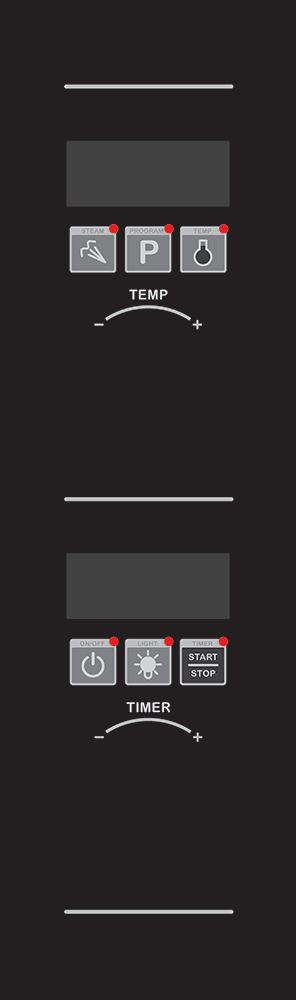
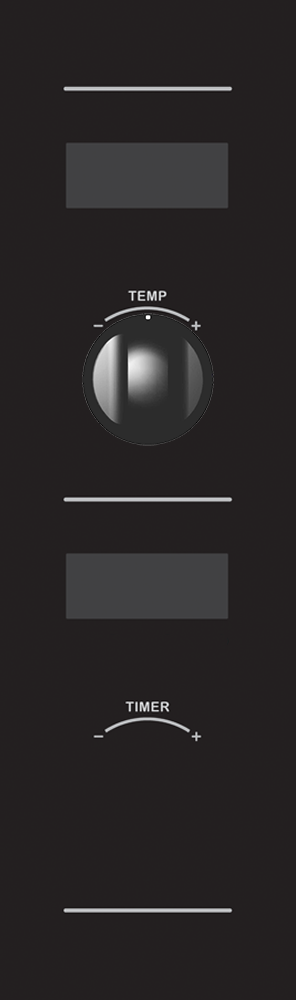
Button alighment

diff --git a/Style.min.css b/Style.min.css
@@ -1,1 +1,1 @@
-@font-face{font-family:'ds-digitalitalic';src:url('fonts/DS-Digital/ds-digii-webfont.eot');src:url('fonts/DS-Digital/ds-digii-webfont.eot?#iefix') format('embedded-opentype'),url('fonts/DS-Digital/ds-digii-webfont.woff2') format('woff2'),url('fonts/DS-Digital/ds-digii-webfont.woff') format('woff'),url('fonts/DS-Digital/ds-digii-webfont.ttf') format('truetype'),url('fonts/DS-Digital/ds-digii-webfont.svg#ds-digitalitalic') format('svg');font-weight:normal;font-style:normal}.digial{font-family:'ds-digitalitalic'}.displayBox{width:102px;height:41px;border:1px solid #666;font-size:33pt;font-family:'ds-digitalitalic';text-align:center;background-color:#72716c;color:#fefcf9}.controlPanel{height:1000px;width:300px;background-image:url('Images/D-series-control-panel.png')}.btn{width:46px;height:46px;cursor:pointer;border:none}.btnSteam_Off{background-image:url('Images/btnSteam_Off.png')}.btnSteam_On{background-image:url('Images/btnSteam_On.png')}.btnProgram_Off{background-image:url('Images/btnProgram_Off.png')}.btnProgram_On{background-image:url('Images/btnProgram_On.png')}.btnTemp_Off{background-image:url('Images/btnTemp_Off.png')}.btnTemp_On{background-image:url('Images/btnTemp_On.png')}.btnLightPower_Off{background-image:url('Images/btnLightPower_Off.png')}.btnLightPower_On{background-image:url('Images/btnLightPower_On.png')}.btnFan_Off{background-image:url('Images/btnFan_Off.png')}.btnFan_On{background-image:url('Images/btnFan_On.png')}.btnTimer_Off{background-image:url('Images/btnTimer_Off.png')}.btnTimer_On{background-image:url('Images/btnTimer_On.png')}
+@font-face{font-family:'ds-digitalitalic';src:url('fonts/DS-Digital/ds-digii-webfont.eot');src:url('fonts/DS-Digital/ds-digii-webfont.eot?#iefix') format('embedded-opentype'),url('fonts/DS-Digital/ds-digii-webfont.woff2') format('woff2'),url('fonts/DS-Digital/ds-digii-webfont.woff') format('woff'),url('fonts/DS-Digital/ds-digii-webfont.ttf') format('truetype'),url('fonts/DS-Digital/ds-digii-webfont.svg#ds-digitalitalic') format('svg');font-weight:normal;font-style:normal}.digial{font-family:'ds-digitalitalic'}.displayBox{width:163px;height:65px;border:0;font-size:48pt;font-family:'ds-digitalitalic';text-align:center;background-color:#414142;color:#fefcf9}.controlPanel{height:1000px;width:296px;background-image:url('Images/D-series-control-panel.png')}.btn{width:46px;height:46px;cursor:pointer;border:none}.btnSteam_Off{background-image:url('Images/btnSteam_Off.png')}.btnSteam_On{background-image:url('Images/btnSteam_On.png')}.btnProgram_Off{background-image:url('Images/btnProgram_Off.png')}.btnProgram_On{background-image:url('Images/btnProgram_On.png')}.btnTemp_Off{background-image:url('Images/btnTemp_Off.png')}.btnTemp_On{background-image:url('Images/btnTemp_On.png')}.btnLightPower_Off{background-image:url('Images/btnLightPower_Off.png')}.btnLightPower_On{background-image:url('Images/btnLightPower_On.png')}.btnFan_Off{background-image:url('Images/btnFan_Off.png')}.btnFan_On{background-image:url('Images/btnFan_On.png')}.btnTimer_Off{background-image:url('Images/btnTimer_Off.png')}.btnTimer_On{background-image:url('Images/btnTimer_On.png')}.TopPadding{padding-top:143px}.DisplayLeftMargin{margin-left:65px}.ButtonsLeftMargin{margin-left:69px}.ButtonLeftMargin{margin-left:5px}.ButtonsTopMargin{padding-top:18px}.TempTopPadding{padding-top:143px}.TempLeftMargin{margin-left:69px}.BottomDisplayTopMargin{margin-top:92px}

diff --git a/Index.html b/Index.html
@@ -21,32 +21,29 @@
 
 <body>
     <div class="controlPanel">
-        <div>
-            <div class="displayBox" data-bind="text: TopDisplay"></div>
+        <div class="TopPadding">
+
         </div>
-        <div>
-            <div>
-                <button class="btn" data-bind="click: ButtonClickSteam, css: LightOn_Steam() ? 'btnSteam_On' : 'btnSteam_Off'"></button>
-                <button class="btn" data-bind="click: ButtonClickProgram, css: LightOn_Program() ? 'btnProgram_On' : 'btnProgram_Off'"></button>
-                <button class="btn" data-bind="click: ButtonClickTemp, css: LightOn_Temp() ? 'btnTemp_On' : 'btnTemp_Off'"></button>
-            </div>
+        <div class="displayBox DisplayLeftMargin" data-bind="text: TopDisplay"></div>
+        
+        <div class="ButtonsLeftMargin ButtonsTopMargin">
+            <button class="btn" data-bind="click: ButtonClickSteam, css: LightOn_Steam() ? 'btnSteam_On' : 'btnSteam_Off'"></button>
+            <button class="btn ButtonLeftMargin" data-bind="click: ButtonClickProgram, css: LightOn_Program() ? 'btnProgram_On' : 'btnProgram_Off'"></button>
+            <button class="btn ButtonLeftMargin" data-bind="click: ButtonClickTemp, css: LightOn_Temp() ? 'btnTemp_On' : 'btnTemp_Off'"></button>
         </div>
-        <div>
-            <div>
-                <button class="btn btn-default btn-sm" data-bind="click: IncreaseTargetTemperature">+</button>
-                <button class="btn btn-default btn-sm" data-bind="click: DecreaseTargetTemperature">-</button>
-            </div>
+        <div class="TempTopPadding TempLeftMargin">
+
+            <button class="btn btn-default btn-sm" data-bind="click: IncreaseTargetTemperature">+</button>
+            <button class="btn btn-default btn-sm" data-bind="click: DecreaseTargetTemperature">-</button>
         </div>
 
-        <div>
-            <div class="displayBox" data-bind="text: BottomDisplay"></div>
+        <div class="BottomDisplayTopMargin">
+            <div class="displayBox DisplayLeftMargin" data-bind="text: BottomDisplay"></div>
         </div>
-        <div>
-            <div>
-                <button class="btn" data-bind="event: { mousedown: LightPowerButtonDown, mouseup: LightPowerButtonUp }, css: LightOn_LightPower() ? 'btnLightPower_On' : 'btnLightPower_Off'"></button>
-                <button class="btn" data-bind="click: ButtonClickFan, css: LightOn_Fan() ? 'btnFan_On' : 'btnFan_Off'"></button>
-                <button class="btn" data-bind="click: ButtonClickTimer, css: LightOn_Timer() ? 'btnTimer_On' : 'btnTimer_Off'"></button>
-            </div>
+        <div class="ButtonsLeftMargin ButtonsTopMargin">
+            <button class="btn" data-bind="event: { mousedown: LightPowerButtonDown, mouseup: LightPowerButtonUp }, css: LightOn_LightPower() ? 'btnLightPower_On' : 'btnLightPower_Off'"></button>
+            <button class="btn ButtonLeftMargin" data-bind="click: ButtonClickFan, css: LightOn_Fan() ? 'btnFan_On' : 'btnFan_Off'"></button>
+            <button class="btn ButtonLeftMargin" data-bind="click: ButtonClickTimer, css: LightOn_Timer() ? 'btnTimer_On' : 'btnTimer_Off'"></button>
         </div>
     </div>
     <div>

diff --git a/Style.less b/Style.less
@@ -11,19 +11,19 @@
 }
 /*# sourceMappingURL=Style.css.map */
 .displayBox {
-    width: 102px;
-    height: 41px;
-    border: 1px solid #666;
-    font-size: 33pt;
+    width: 163px;
+    height: 65px;
+    border: 0;
+    font-size: 48pt;
     font-family: 'ds-digitalitalic';
     text-align: center;
-    background-color: #72716c;
+    background-color: #414142;
     color: #fefcf9;
 }
 
 .controlPanel {
     height: 1000px;
-    width: 300px;
+    width: 296px;
     background-image: url('Images/D-series-control-panel.png');
 }
 
@@ -89,4 +89,37 @@
 
 .btnTimer_On {
     background-image: url('Images/btnTimer_On.png');
+}
+
+/*Layout*/
+.TopPadding{
+    padding-top: 143px;
+}
+
+.DisplayLeftMargin{
+    margin-left: 65px;
+}
+
+.ButtonsLeftMargin{
+    margin-left: 69px;
+}
+
+.ButtonLeftMargin{
+    margin-left: 5px;
+}
+
+.ButtonsTopMargin{
+    padding-top: 18px;
+}
+
+.TempTopPadding{
+    padding-top: 143px;
+}
+
+.TempLeftMargin{
+    margin-left: 69px;
+}
+
+.BottomDisplayTopMargin{
+    margin-top: 92px;
 }

diff --git a/Style.css b/Style.css
@@ -10,18 +10,18 @@
 }
 /*# sourceMappingURL=Style.css.map */
 .displayBox {
-  width: 102px;
-  height: 41px;
-  border: 1px solid #666;
-  font-size: 33pt;
+  width: 163px;
+  height: 65px;
+  border: 0;
+  font-size: 48pt;
   font-family: 'ds-digitalitalic';
   text-align: center;
-  background-color: #72716c;
+  background-color: #414142;
   color: #fefcf9;
 }
 .controlPanel {
   height: 1000px;
-  width: 300px;
+  width: 296px;
   background-image: url('Images/D-series-control-panel.png');
 }
 .btn {
@@ -72,5 +72,30 @@
 }
 .btnTimer_On {
   background-image: url('Images/btnTimer_On.png');
+}
+/*Layout*/
+.TopPadding {
+  padding-top: 143px;
+}
+.DisplayLeftMargin {
+  margin-left: 65px;
+}
+.ButtonsLeftMargin {
+  margin-left: 69px;
+}
+.ButtonLeftMargin {
+  margin-left: 5px;
+}
+.ButtonsTopMargin {
+  padding-top: 18px;
+}
+.TempTopPadding {
+  padding-top: 143px;
+}
+.TempLeftMargin {
+  margin-left: 69px;
+}
+.BottomDisplayTopMargin {
+  margin-top: 92px;
 }
 /*# sourceMappingURL=Style.css.map */
